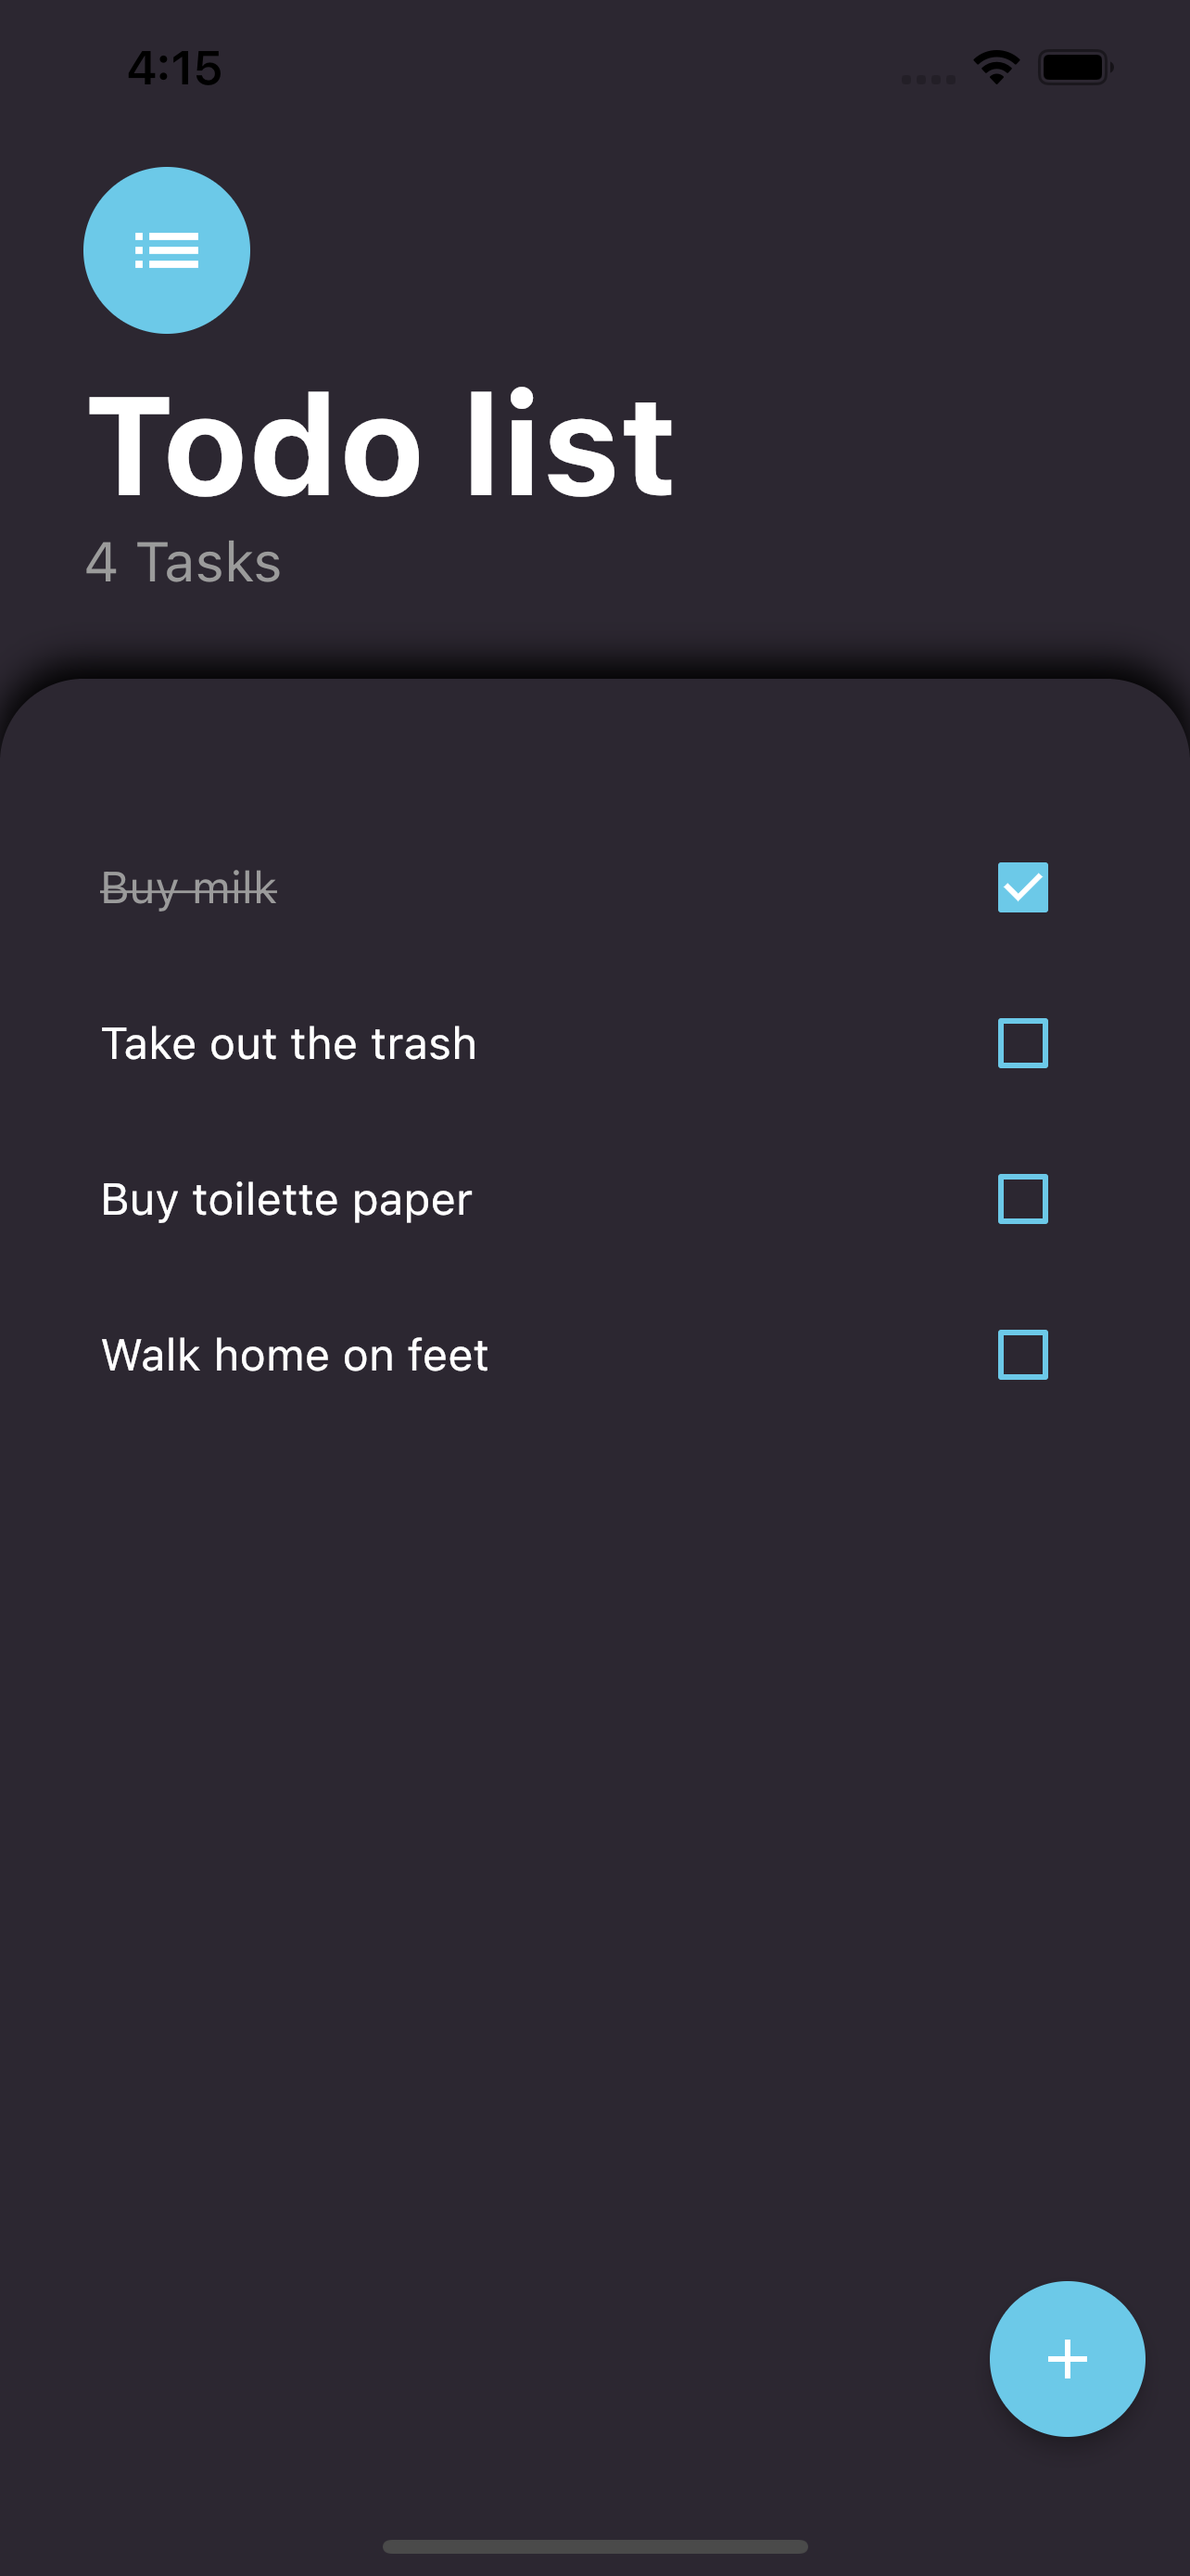
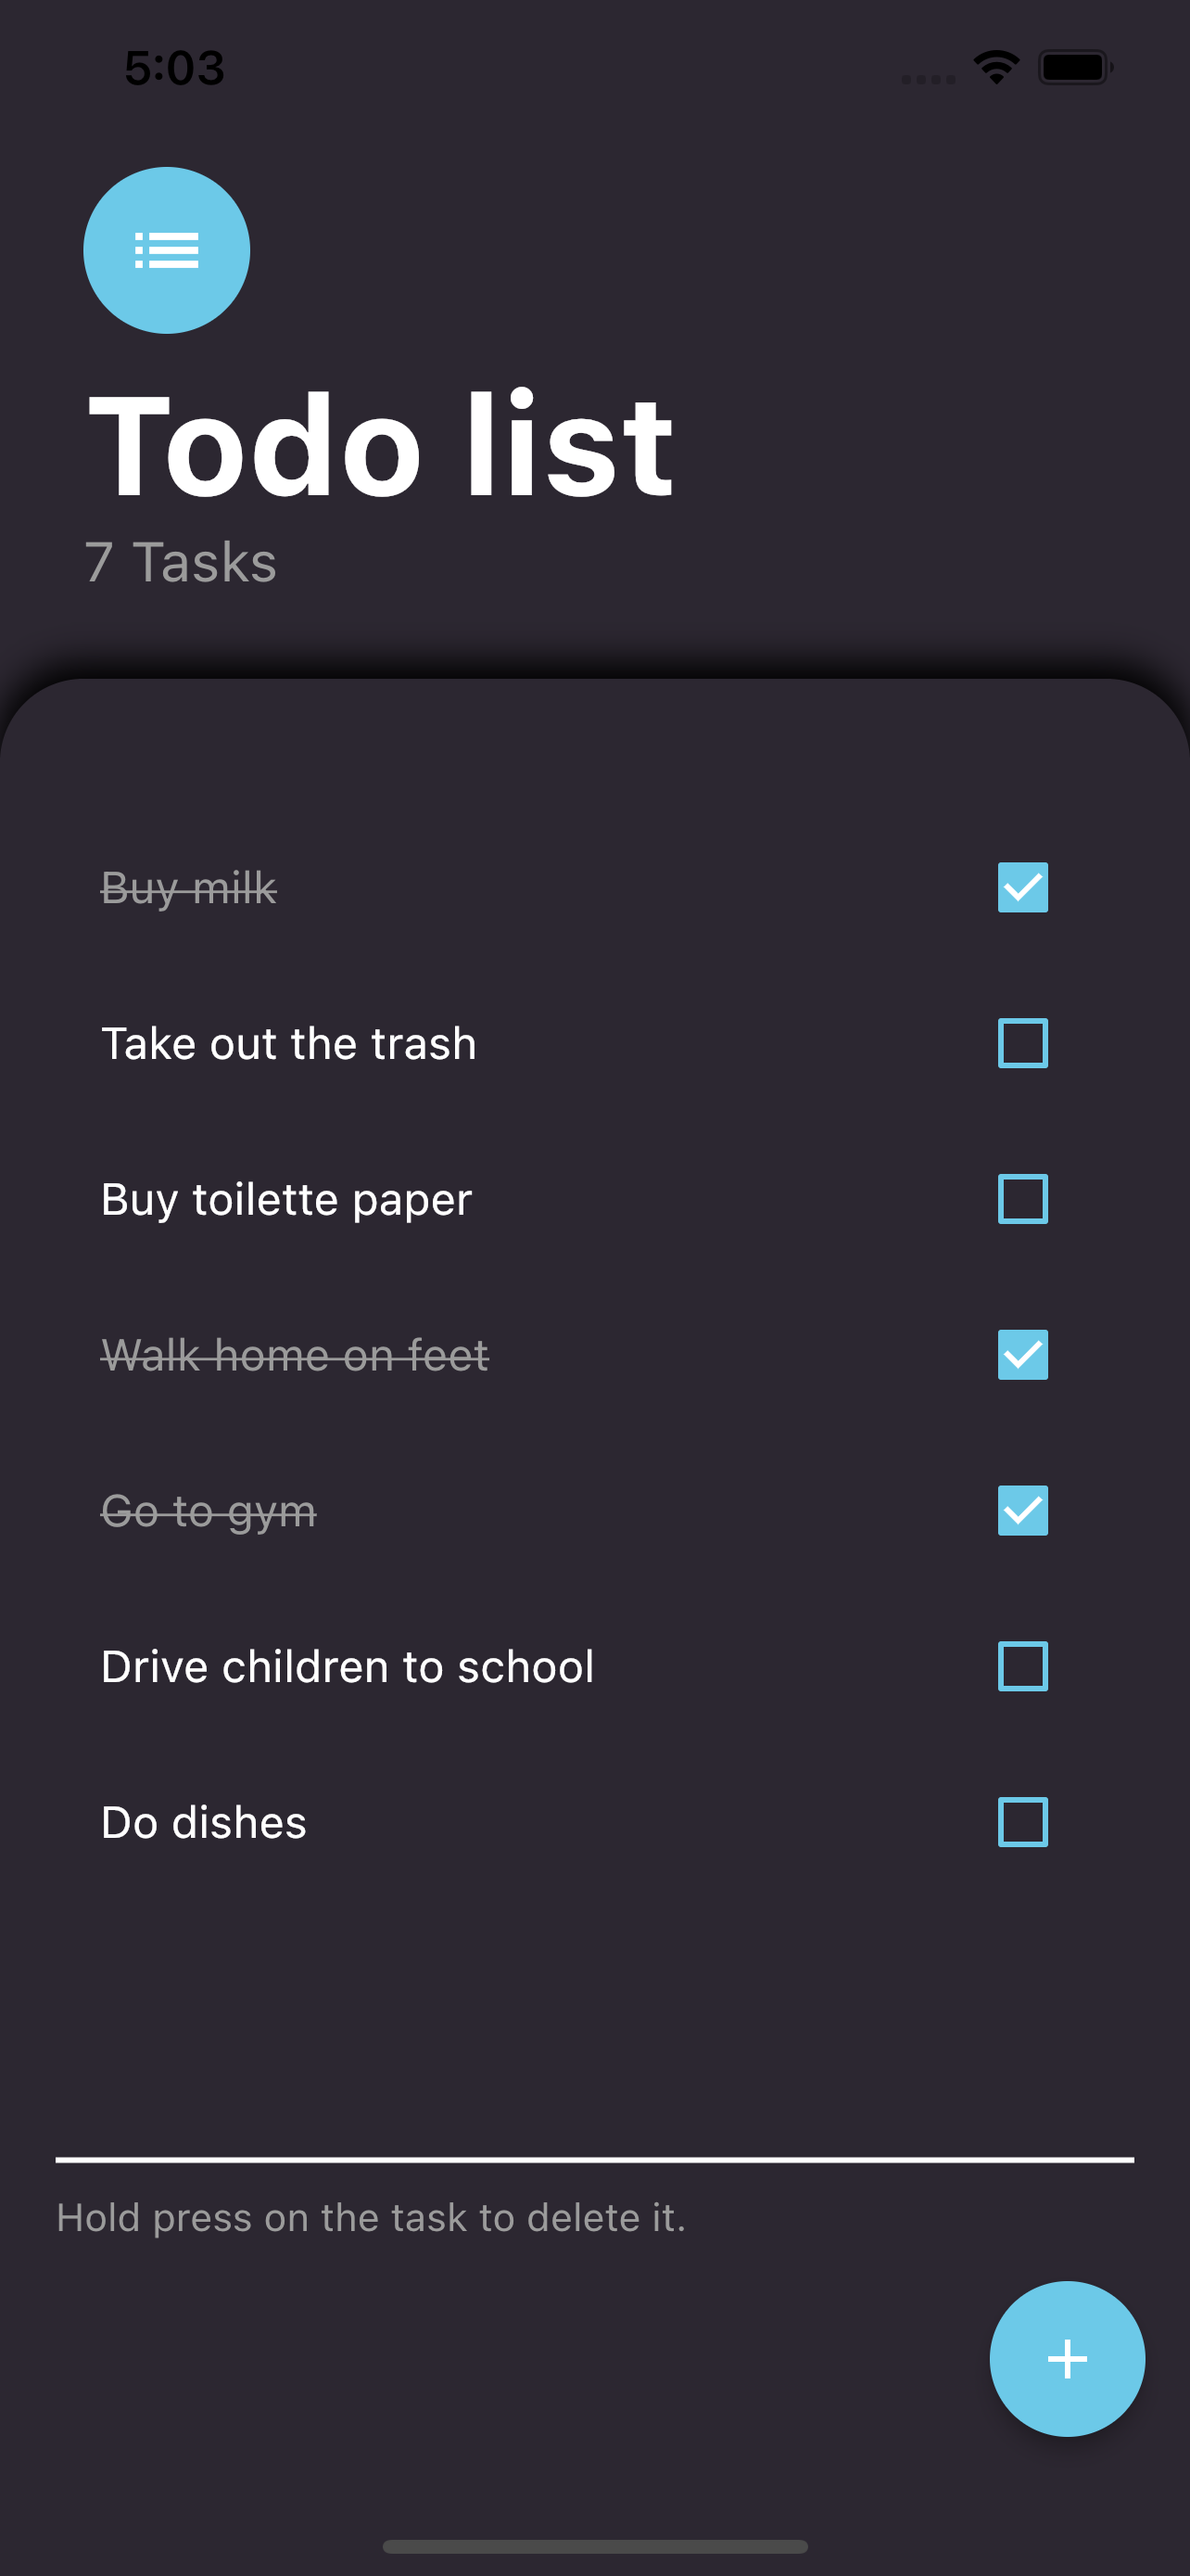
delete task information

diff --git a/lib/screens/tasks_screen.dart b/lib/screens/tasks_screen.dart
@@ -72,8 +72,10 @@ class TasksScreen extends StatelessWidget {
           ),
           Expanded(
             child: Container(
-              padding: EdgeInsets.symmetric(
-                horizontal: 20,
+              padding: EdgeInsets.only(
+                left: 20,
+                right: 20,
+                bottom: 120,
               ),
               decoration: BoxDecoration(
                 color: colorPrimary,
@@ -90,9 +92,27 @@ class TasksScreen extends StatelessWidget {
                   topRight: Radius.circular(30),
                 ),
               ),
-              child: TasksList(
-                  //tasks: Provider.of<TodoList>(context).tasks,
+              child: Column(
+                crossAxisAlignment: CrossAxisAlignment.start,
+                children: [
+                  Expanded(
+                    child: TasksList(
+                        //tasks: Provider.of<TodoList>(context).tasks,
+                        ),
                   ),
+                  Divider(
+                    height: 25,
+                    thickness: 2,
+                    color: colorWhite,
+                  ),
+                  Text(
+                    'Hold press on the task to delete it.',
+                    style: TextStyle(
+                      color: colorGrey,
+                    ),
+                  ),
+                ],
+              ),
             ),
           ),
         ],

diff --git a/lib/widgets/task_tile.dart b/lib/widgets/task_tile.dart
@@ -24,7 +24,7 @@ class TaskTile extends StatelessWidget {
             decoration: isChecked ? TextDecoration.lineThrough : null),
       ),
       trailing: Checkbox(
-        activeColor: colorAccent,
+        fillColor: MaterialStateProperty.all(colorAccent),
         value: isChecked,
         onChanged: (newValue) {
           checkboxCallback(newValue!);

diff --git a/README.md b/README.md
@@ -18,7 +18,4 @@ This is a simple Todo List mobile app built with **flutter** for both android an
 <picture>
   <img alt="Screenshot" src="/assets/screen3.png" width="240"/>
 </picture>
-<picture>
-  <img alt="Screenshot" src="/assets/screen4.png" width="240"/>
-</picture>
 
